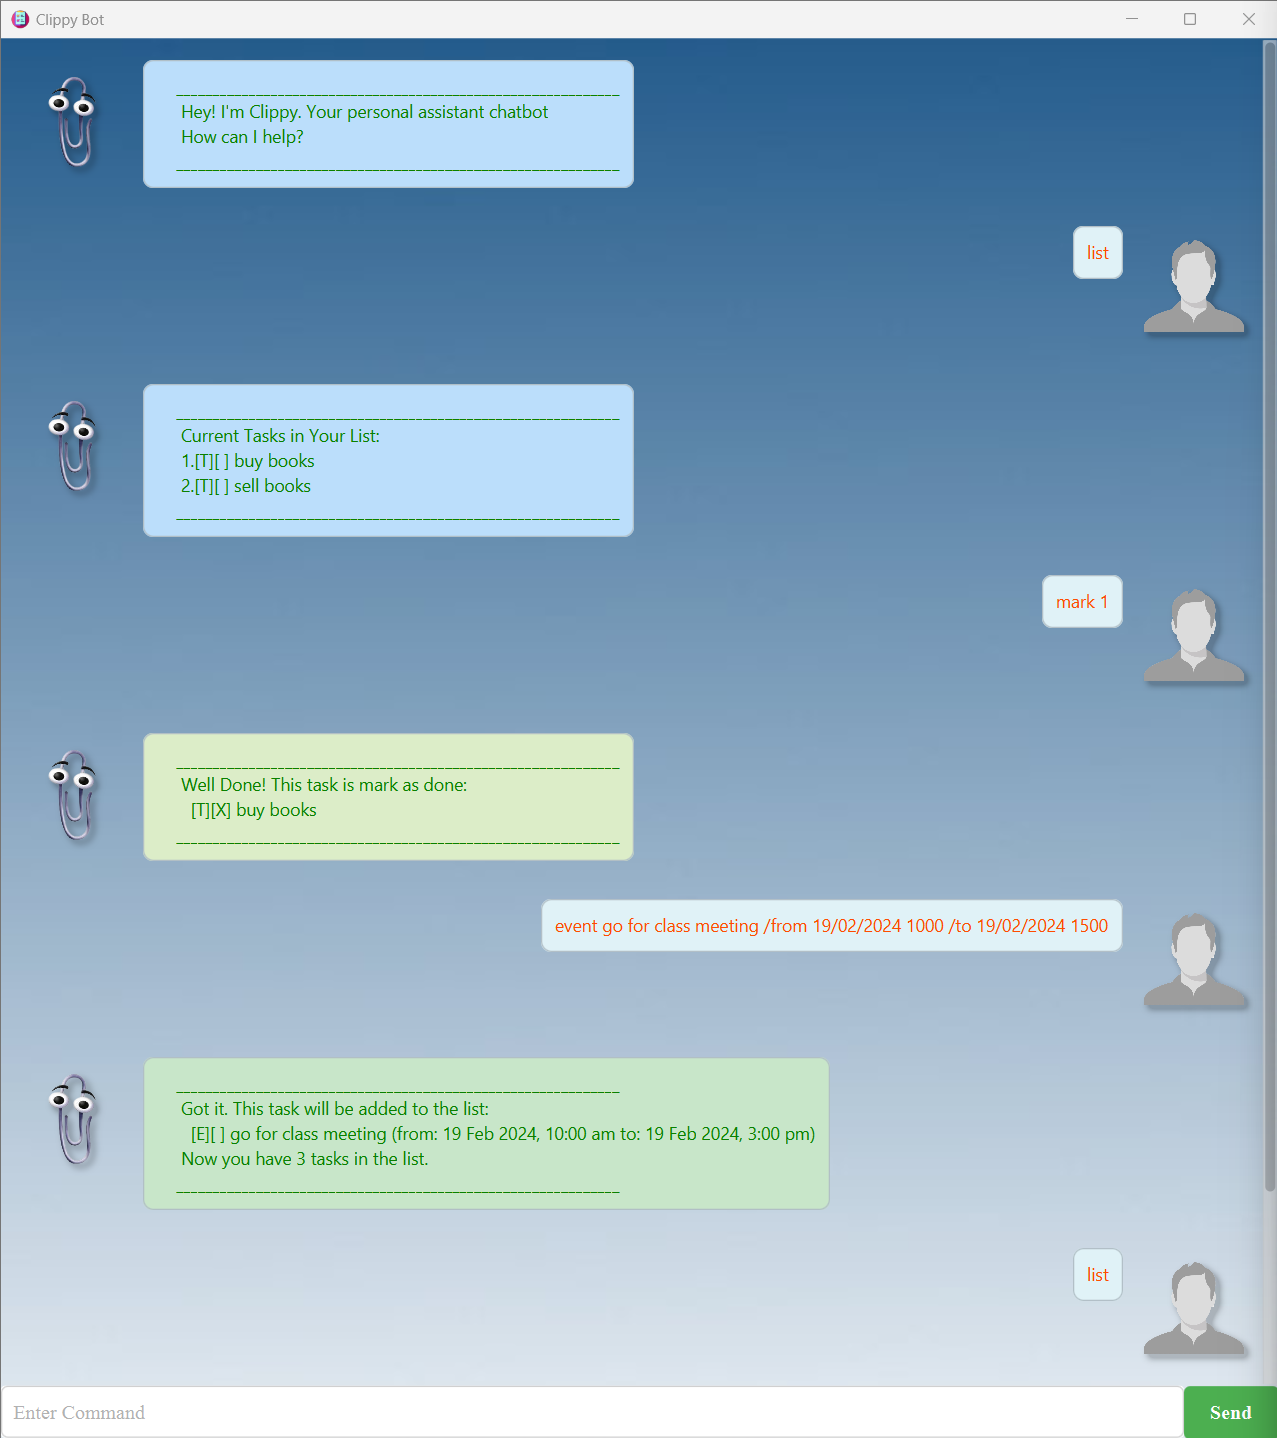
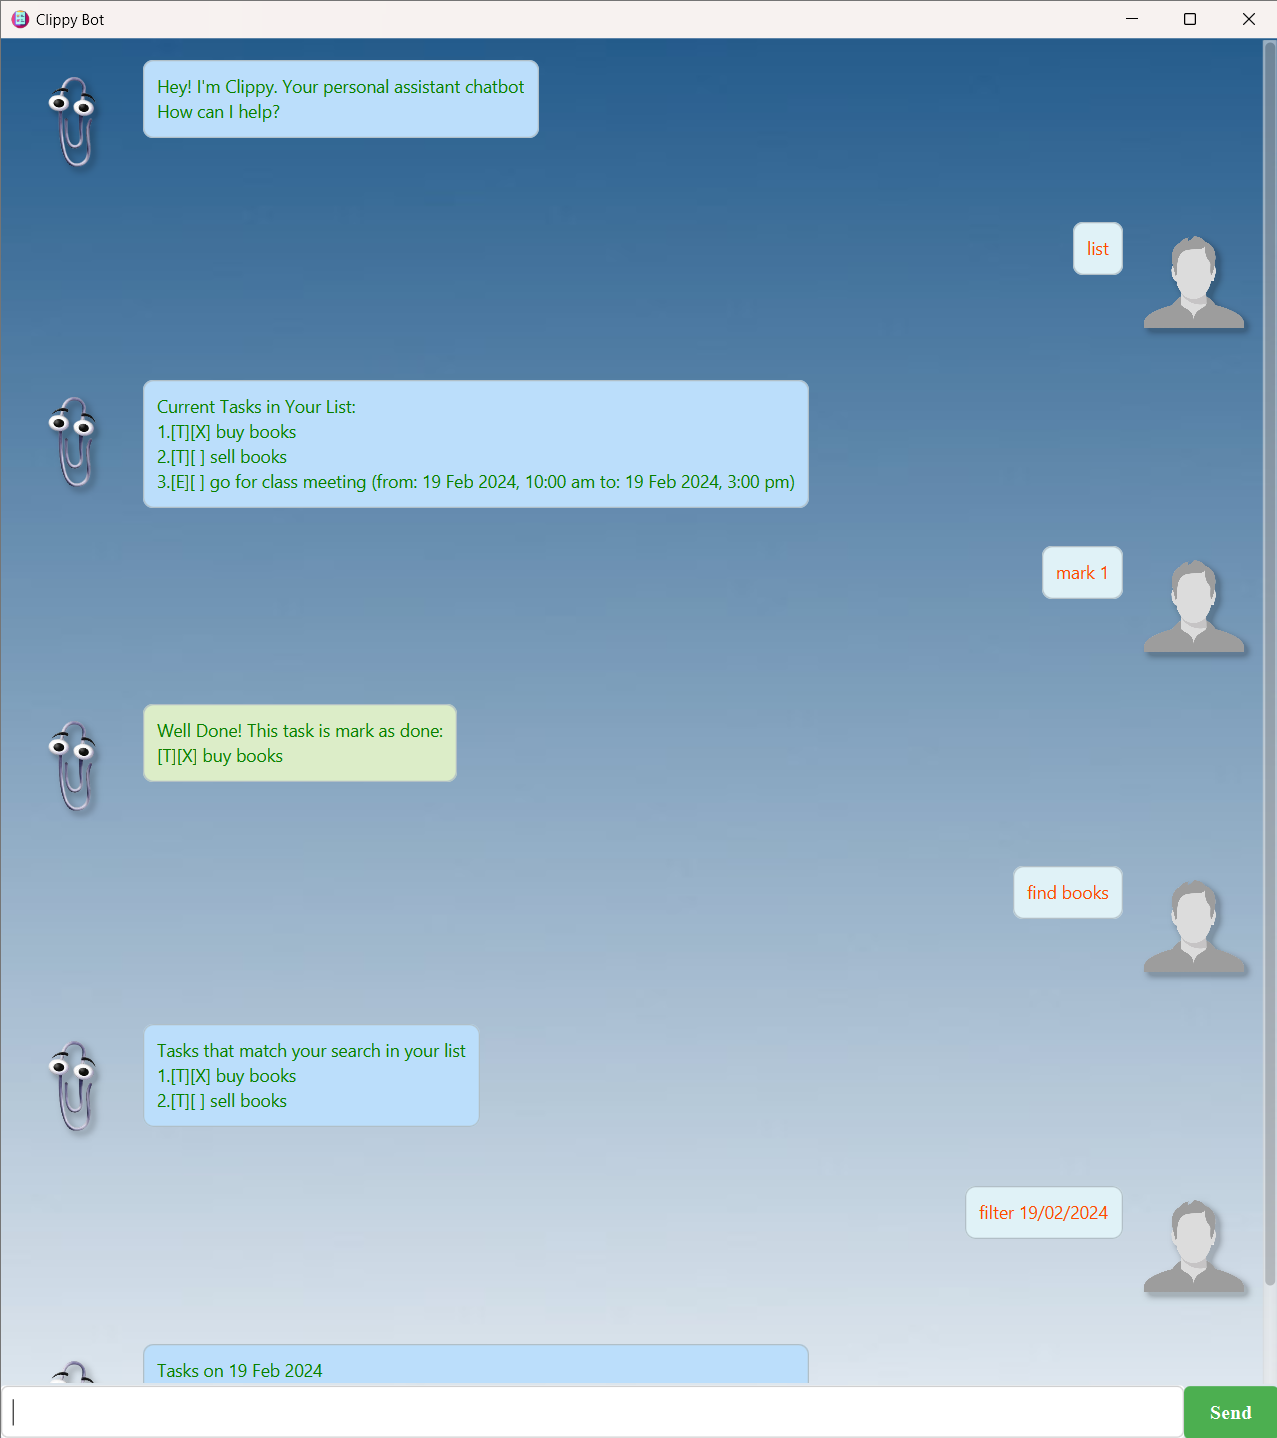
Update screenshot of product

diff --git a/src/main/java/clippy/ui/UI.java b/src/main/java/clippy/ui/UI.java
@@ -20,7 +20,7 @@ public class UI {
      * @return The formatted string with borders.
      */
     public static String encloseText(String input) {
-        return HORIZONTAL_LINE + "     " + input.trim() + "\n" + HORIZONTAL_LINE;
+        return input.trim() + "\n";
     }
 
     /**
@@ -30,7 +30,7 @@ public class UI {
      */
     public static String getGreeting() {
         return encloseText("Hey! I'm Clippy. Your personal assistant chatbot\n"
-                + "     " + "How can I help?");
+                + "How can I help?");
     }
 
     /**
@@ -51,8 +51,7 @@ public class UI {
     public static String displayListString(ArrayList<Task> tasks) {
         StringBuilder result = new StringBuilder("Current Tasks in Your List:\n");
         for (int i = 0; i < tasks.size(); i++) {
-            result.append("     ")
-                    .append(i + 1).append(".")
+            result.append(i + 1).append(".")
                     .append(tasks.get(i).toString()).append("\n");
         }
         return encloseText(result.toString());
@@ -66,7 +65,7 @@ public class UI {
      */
     public static String markTaskString(String input) {
         return encloseText("Well Done! This task is mark as done:\n"
-                + "       " + input);
+                + input);
     }
 
     /**
@@ -77,7 +76,7 @@ public class UI {
      */
     public static String unmarkTaskString(String input) {
         return encloseText("OK. This task is mark as not done:\n"
-                + "       " + input);
+                 + input);
     }
 
     /**
@@ -89,8 +88,8 @@ public class UI {
      */
     public static String addTaskString(String input, int taskNum) {
         String template = "Got it. This task will be added to the list:\n"
-                + "       %s\n"
-                + "     Now you have %d %s in the list.";
+                + "%s\n"
+                + "Now you have %d %s in the list";
         String taskOrTasks = (taskNum == 1 ? "task" : "tasks");
         return encloseText(String.format(template, input, taskNum, taskOrTasks));
     }
@@ -104,8 +103,8 @@ public class UI {
      */
     public static String deleteTaskString(String input, int taskNum) {
         String template = "Got it. This task will be removed from the list:\n"
-                + "       %s\n"
-                + "     Now you have %d %s in the list.";
+                + "%s\n"
+                + "Now you have %d %s in the list";
         String taskOrTasks = (taskNum == 1 ? "task" : "tasks");
         return encloseText(String.format(template, input, taskNum, taskOrTasks));
     }
@@ -144,8 +143,7 @@ public class UI {
         StringBuilder result = new StringBuilder("Tasks on " + target.format(outputFormat) + "\n");
 
         for (int i = 0; i < tasks.size(); i++) {
-            result.append("     ")
-                    .append(i + 1).append(".")
+            result.append(i + 1).append(".")
                     .append(tasks.get(i).toString()).append("\n");
         }
         return encloseText(result.toString());
@@ -165,8 +163,7 @@ public class UI {
         StringBuilder result = new StringBuilder("Tasks that match your search in your list\n");
 
         for (int i = 0; i < tasks.size(); i++) {
-            result.append("     ")
-                    .append(i + 1).append(".")
+            result.append(i + 1).append(".")
                     .append(tasks.get(i).toString()).append("\n");
         }
         return encloseText(result.toString());
@@ -174,7 +171,7 @@ public class UI {
 
     public static String undoTaskString(String description) {
         String template = "The previous command with task has been undo:\n"
-                + "       %s\n";
+                + "%s\n";
         return encloseText(String.format(template, description));
     }
 }
